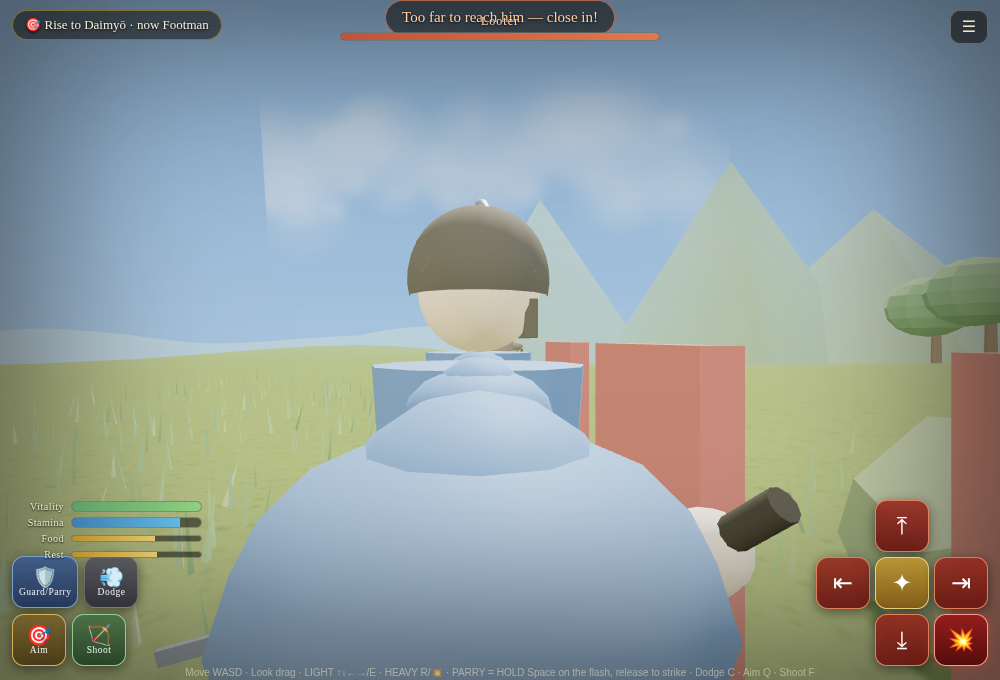
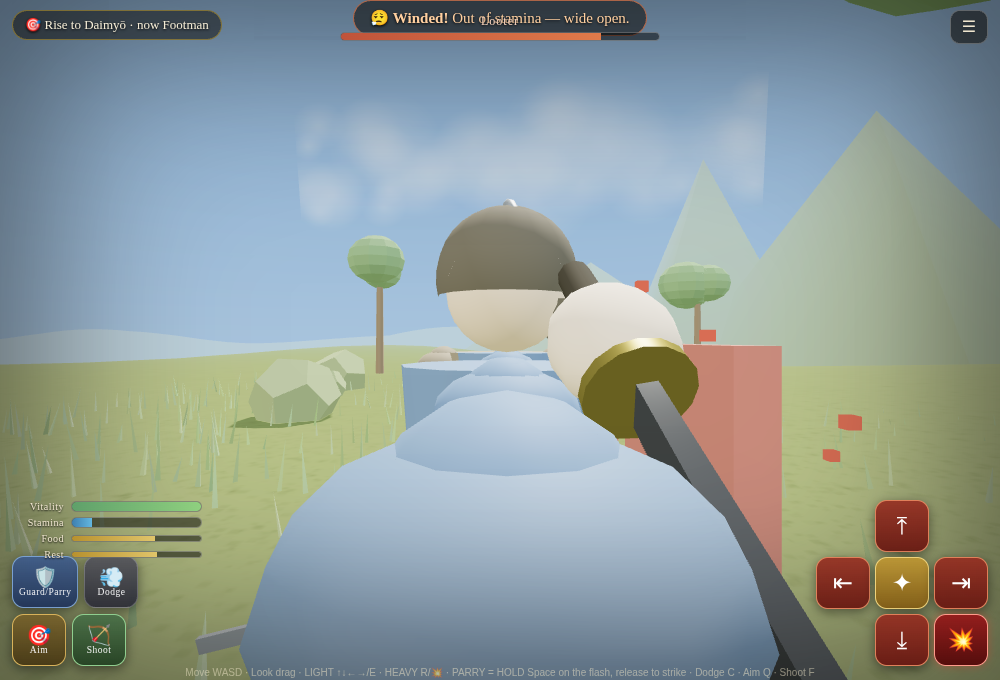
Warrior: hit-zones now apply to normal hits too (not just stunned foes)
You can dismantle a foe mid-fight before ever stunning him: a clean low
cut can hew a leg (cripple), a side cut can disarm him, a thrust pierces
armour, and a killing overhead takes the head. He still turns a blind
swing, so it rewards picking your moment rather than spamming. Stunned/open
foes keep the guaranteed executions. Tutorial updated.

Claude-Session: https://claude.ai/code/session_01TGTkTHuf1gxX1YhXkXdsoi

diff --git a/dist/artifact.html b/dist/artifact.html
@@ -5833,7 +5833,17 @@ WARRIOR3D._dir = function (E, d) {
     E.vulnT = 0.42; E.shake = Math.max(E.shake, 0.18); E.combo = 0;
     if (Math.random() < f.aggr * 0.5) { f.state = "recover"; f.stateT = 0; WARRIOR3D._foeHits(E, 0.5); WARRIOR3D._prompt(E, "🛡 He turns your blade and counters! Bait his attack, parry, punish.", "warn"); }
     else WARRIOR3D._prompt(E, "🛡 He turns your blade — swinging blind won't break him. Wait for his cut.", "warn");
-  } else { f.poise -= 1; WARRIOR3D._damageFoe(E, Math.max(1, Math.round(E.atk * 0.3 * E.weapon.atkMult)), false);
+  } else {                                                 // the swing lands clean — WHERE you cut still matters mid-fight
+    f.poise -= 1; let dm = Math.max(1, Math.round(E.atk * 0.35 * E.weapon.atkMult));
+    if (d === "down" && !f.crippled && Math.random() < 0.55) {          // hack at his legs — take one
+      WARRIOR3D._crippleLeg(E, f); WARRIOR3D._damageFoe(E, dm, false);
+      if (!f.dead) WARRIOR3D._prompt(E, "🦵 <b>You hew his leg away — he crumples!</b>", "good"); return; }
+    if ((d === "left" || d === "right") && !f.disarmed && Math.random() < 0.42 && WARRIOR3D._disarm(E, f)) {   // open his arm — disarm
+      WARRIOR3D._damageFoe(E, dm, false); if (!f.dead) WARRIOR3D._prompt(E, "🩸 <b>You open his arm — his blade drops!</b>", "good"); return; }
+    if (d === "up") dm = Math.round(dm * 1.4);            // head — more damage
+    else if (d === "thrust") dm += 3;                     // pierce
+    if (d === "up" && f.hp - dm <= 0) { WARRIOR3D._behead(E, f); return; }   // a killing overhead takes the head
+    WARRIOR3D._damageFoe(E, dm, false);
     if (!f.dead && f.poise <= 0) { f.state = "staggered"; f.stateT = 0; f.openSide = d; f.poise = f.poiseMax; WARRIOR3D._prompt(E, "💥 <b>Guard broken!</b> Strike the opening!", "good"); }
     else if (!f.dead) WARRIOR3D._prompt(E, `⚔ You batter his guard — poise ${Math.max(0, f.poise)}. Watch for his cut.`, ""); }
 };
@@ -6465,7 +6475,7 @@ WARRIOR.runStory = async function () {
   await W.goto(3, -13, "the muster ground", "muster");
   await W.say(`Sergeant Gorō looks you over. "Another stray with a grudge. Let's see if you can hold a blade — come at me."`, { who: "Sergeant Gorō" });
   await W.say(`<b>Weighty blade combat — light, heavy, and the parry.</b><br>• <b>PARRY</b> = <b>HOLD Space</b> (or hold the 🛡 Guard/Parry button). When he winds up his blade <b>flashes</b> — <b>raise your guard on the flash and hold</b> through the blow. Time it and you <b>PARRY: he's stunned</b>. Turtle it up early and you only block. Holding drains stamina, so don't sit on it. You can't swing while guarding — <b>release, then strike</b>.<br>• <b>LIGHT ATTACK</b> = the <b>directions</b> ↑ ↓ ← → / <b>E</b> (rosette): fast, cheap — but a good foe reads a blind swing and counters.<br>• <b>HEAVY</b> = <b>R</b> (or 💥): slow and brutal — smashes a braced guard, but leaves you wide open, so use it when he's <b>not</b> swinging.<br>• When he's <b>stunned</b>, your blow is a <b>FINISHER</b>. <b>Bait → parry the flash → release → finish.</b>`, { big: true });
-  await W.say(`<b>Where you cut matters.</b> On a stunned or open foe: <b>↑ overhead</b> is a <b>kill shot to the head</b> (take his head clean off); <b>↓ low</b> hews a <b>leg</b> out from under him; <b>← / →</b> open his sword-arm and can <b>disarm</b> him; <b>E thrust</b> punches <b>through his armour</b>. Aim your finishers.`, { big: true });
+  await W.say(`<b>Where you cut matters — even mid-fight.</b> Whenever a blow lands: <b>↓ low</b> can hew a <b>leg</b> out from under him (he fights on from a knee); <b>← / →</b> open his sword-arm and can <b>disarm</b> him; <b>E thrust</b> punches <b>through armour</b>; <b>↑ overhead</b> cuts to the head — and on a <b>stunned</b> foe (or as a killing blow) it <b>takes his head clean off</b>. He'll turn a blind swing, though — so pick your moment.`, { big: true });
   await WARRIOR.battle([WARRIOR.foe("ashigaru", "Sergeant Gorō")], { tutorial: true });
   await W.say(`Gorō spits, and grins. "Huh. You'll do." You are ${clan} now — the lowest rung of it, but yours.`, { who: "Sergeant Gorō" });
   WARRIOR.rankUp(1, "a footman of the " + clan);

diff --git a/dist/shogun.html b/dist/shogun.html
@@ -5841,7 +5841,17 @@ WARRIOR3D._dir = function (E, d) {
     E.vulnT = 0.42; E.shake = Math.max(E.shake, 0.18); E.combo = 0;
     if (Math.random() < f.aggr * 0.5) { f.state = "recover"; f.stateT = 0; WARRIOR3D._foeHits(E, 0.5); WARRIOR3D._prompt(E, "🛡 He turns your blade and counters! Bait his attack, parry, punish.", "warn"); }
     else WARRIOR3D._prompt(E, "🛡 He turns your blade — swinging blind won't break him. Wait for his cut.", "warn");
-  } else { f.poise -= 1; WARRIOR3D._damageFoe(E, Math.max(1, Math.round(E.atk * 0.3 * E.weapon.atkMult)), false);
+  } else {                                                 // the swing lands clean — WHERE you cut still matters mid-fight
+    f.poise -= 1; let dm = Math.max(1, Math.round(E.atk * 0.35 * E.weapon.atkMult));
+    if (d === "down" && !f.crippled && Math.random() < 0.55) {          // hack at his legs — take one
+      WARRIOR3D._crippleLeg(E, f); WARRIOR3D._damageFoe(E, dm, false);
+      if (!f.dead) WARRIOR3D._prompt(E, "🦵 <b>You hew his leg away — he crumples!</b>", "good"); return; }
+    if ((d === "left" || d === "right") && !f.disarmed && Math.random() < 0.42 && WARRIOR3D._disarm(E, f)) {   // open his arm — disarm
+      WARRIOR3D._damageFoe(E, dm, false); if (!f.dead) WARRIOR3D._prompt(E, "🩸 <b>You open his arm — his blade drops!</b>", "good"); return; }
+    if (d === "up") dm = Math.round(dm * 1.4);            // head — more damage
+    else if (d === "thrust") dm += 3;                     // pierce
+    if (d === "up" && f.hp - dm <= 0) { WARRIOR3D._behead(E, f); return; }   // a killing overhead takes the head
+    WARRIOR3D._damageFoe(E, dm, false);
     if (!f.dead && f.poise <= 0) { f.state = "staggered"; f.stateT = 0; f.openSide = d; f.poise = f.poiseMax; WARRIOR3D._prompt(E, "💥 <b>Guard broken!</b> Strike the opening!", "good"); }
     else if (!f.dead) WARRIOR3D._prompt(E, `⚔ You batter his guard — poise ${Math.max(0, f.poise)}. Watch for his cut.`, ""); }
 };
@@ -6473,7 +6483,7 @@ WARRIOR.runStory = async function () {
   await W.goto(3, -13, "the muster ground", "muster");
   await W.say(`Sergeant Gorō looks you over. "Another stray with a grudge. Let's see if you can hold a blade — come at me."`, { who: "Sergeant Gorō" });
   await W.say(`<b>Weighty blade combat — light, heavy, and the parry.</b><br>• <b>PARRY</b> = <b>HOLD Space</b> (or hold the 🛡 Guard/Parry button). When he winds up his blade <b>flashes</b> — <b>raise your guard on the flash and hold</b> through the blow. Time it and you <b>PARRY: he's stunned</b>. Turtle it up early and you only block. Holding drains stamina, so don't sit on it. You can't swing while guarding — <b>release, then strike</b>.<br>• <b>LIGHT ATTACK</b> = the <b>directions</b> ↑ ↓ ← → / <b>E</b> (rosette): fast, cheap — but a good foe reads a blind swing and counters.<br>• <b>HEAVY</b> = <b>R</b> (or 💥): slow and brutal — smashes a braced guard, but leaves you wide open, so use it when he's <b>not</b> swinging.<br>• When he's <b>stunned</b>, your blow is a <b>FINISHER</b>. <b>Bait → parry the flash → release → finish.</b>`, { big: true });
-  await W.say(`<b>Where you cut matters.</b> On a stunned or open foe: <b>↑ overhead</b> is a <b>kill shot to the head</b> (take his head clean off); <b>↓ low</b> hews a <b>leg</b> out from under him; <b>← / →</b> open his sword-arm and can <b>disarm</b> him; <b>E thrust</b> punches <b>through his armour</b>. Aim your finishers.`, { big: true });
+  await W.say(`<b>Where you cut matters — even mid-fight.</b> Whenever a blow lands: <b>↓ low</b> can hew a <b>leg</b> out from under him (he fights on from a knee); <b>← / →</b> open his sword-arm and can <b>disarm</b> him; <b>E thrust</b> punches <b>through armour</b>; <b>↑ overhead</b> cuts to the head — and on a <b>stunned</b> foe (or as a killing blow) it <b>takes his head clean off</b>. He'll turn a blind swing, though — so pick your moment.`, { big: true });
   await WARRIOR.battle([WARRIOR.foe("ashigaru", "Sergeant Gorō")], { tutorial: true });
   await W.say(`Gorō spits, and grins. "Huh. You'll do." You are ${clan} now — the lowest rung of it, but yours.`, { who: "Sergeant Gorō" });
   WARRIOR.rankUp(1, "a footman of the " + clan);

diff --git a/js/warrior.js b/js/warrior.js
@@ -243,7 +243,7 @@ WARRIOR.runStory = async function () {
   await W.goto(3, -13, "the muster ground", "muster");
   await W.say(`Sergeant Gorō looks you over. "Another stray with a grudge. Let's see if you can hold a blade — come at me."`, { who: "Sergeant Gorō" });
   await W.say(`<b>Weighty blade combat — light, heavy, and the parry.</b><br>• <b>PARRY</b> = <b>HOLD Space</b> (or hold the 🛡 Guard/Parry button). When he winds up his blade <b>flashes</b> — <b>raise your guard on the flash and hold</b> through the blow. Time it and you <b>PARRY: he's stunned</b>. Turtle it up early and you only block. Holding drains stamina, so don't sit on it. You can't swing while guarding — <b>release, then strike</b>.<br>• <b>LIGHT ATTACK</b> = the <b>directions</b> ↑ ↓ ← → / <b>E</b> (rosette): fast, cheap — but a good foe reads a blind swing and counters.<br>• <b>HEAVY</b> = <b>R</b> (or 💥): slow and brutal — smashes a braced guard, but leaves you wide open, so use it when he's <b>not</b> swinging.<br>• When he's <b>stunned</b>, your blow is a <b>FINISHER</b>. <b>Bait → parry the flash → release → finish.</b>`, { big: true });
-  await W.say(`<b>Where you cut matters.</b> On a stunned or open foe: <b>↑ overhead</b> is a <b>kill shot to the head</b> (take his head clean off); <b>↓ low</b> hews a <b>leg</b> out from under him; <b>← / →</b> open his sword-arm and can <b>disarm</b> him; <b>E thrust</b> punches <b>through his armour</b>. Aim your finishers.`, { big: true });
+  await W.say(`<b>Where you cut matters — even mid-fight.</b> Whenever a blow lands: <b>↓ low</b> can hew a <b>leg</b> out from under him (he fights on from a knee); <b>← / →</b> open his sword-arm and can <b>disarm</b> him; <b>E thrust</b> punches <b>through armour</b>; <b>↑ overhead</b> cuts to the head — and on a <b>stunned</b> foe (or as a killing blow) it <b>takes his head clean off</b>. He'll turn a blind swing, though — so pick your moment.`, { big: true });
   await WARRIOR.battle([WARRIOR.foe("ashigaru", "Sergeant Gorō")], { tutorial: true });
   await W.say(`Gorō spits, and grins. "Huh. You'll do." You are ${clan} now — the lowest rung of it, but yours.`, { who: "Sergeant Gorō" });
   WARRIOR.rankUp(1, "a footman of the " + clan);

diff --git a/js/warrior3d.js b/js/warrior3d.js
@@ -598,7 +598,17 @@ WARRIOR3D._dir = function (E, d) {
     E.vulnT = 0.42; E.shake = Math.max(E.shake, 0.18); E.combo = 0;
     if (Math.random() < f.aggr * 0.5) { f.state = "recover"; f.stateT = 0; WARRIOR3D._foeHits(E, 0.5); WARRIOR3D._prompt(E, "🛡 He turns your blade and counters! Bait his attack, parry, punish.", "warn"); }
     else WARRIOR3D._prompt(E, "🛡 He turns your blade — swinging blind won't break him. Wait for his cut.", "warn");
-  } else { f.poise -= 1; WARRIOR3D._damageFoe(E, Math.max(1, Math.round(E.atk * 0.3 * E.weapon.atkMult)), false);
+  } else {                                                 // the swing lands clean — WHERE you cut still matters mid-fight
+    f.poise -= 1; let dm = Math.max(1, Math.round(E.atk * 0.35 * E.weapon.atkMult));
+    if (d === "down" && !f.crippled && Math.random() < 0.55) {          // hack at his legs — take one
+      WARRIOR3D._crippleLeg(E, f); WARRIOR3D._damageFoe(E, dm, false);
+      if (!f.dead) WARRIOR3D._prompt(E, "🦵 <b>You hew his leg away — he crumples!</b>", "good"); return; }
+    if ((d === "left" || d === "right") && !f.disarmed && Math.random() < 0.42 && WARRIOR3D._disarm(E, f)) {   // open his arm — disarm
+      WARRIOR3D._damageFoe(E, dm, false); if (!f.dead) WARRIOR3D._prompt(E, "🩸 <b>You open his arm — his blade drops!</b>", "good"); return; }
+    if (d === "up") dm = Math.round(dm * 1.4);            // head — more damage
+    else if (d === "thrust") dm += 3;                     // pierce
+    if (d === "up" && f.hp - dm <= 0) { WARRIOR3D._behead(E, f); return; }   // a killing overhead takes the head
+    WARRIOR3D._damageFoe(E, dm, false);
     if (!f.dead && f.poise <= 0) { f.state = "staggered"; f.stateT = 0; f.openSide = d; f.poise = f.poiseMax; WARRIOR3D._prompt(E, "💥 <b>Guard broken!</b> Strike the opening!", "good"); }
     else if (!f.dead) WARRIOR3D._prompt(E, `⚔ You batter his guard — poise ${Math.max(0, f.poise)}. Watch for his cut.`, ""); }
 };
